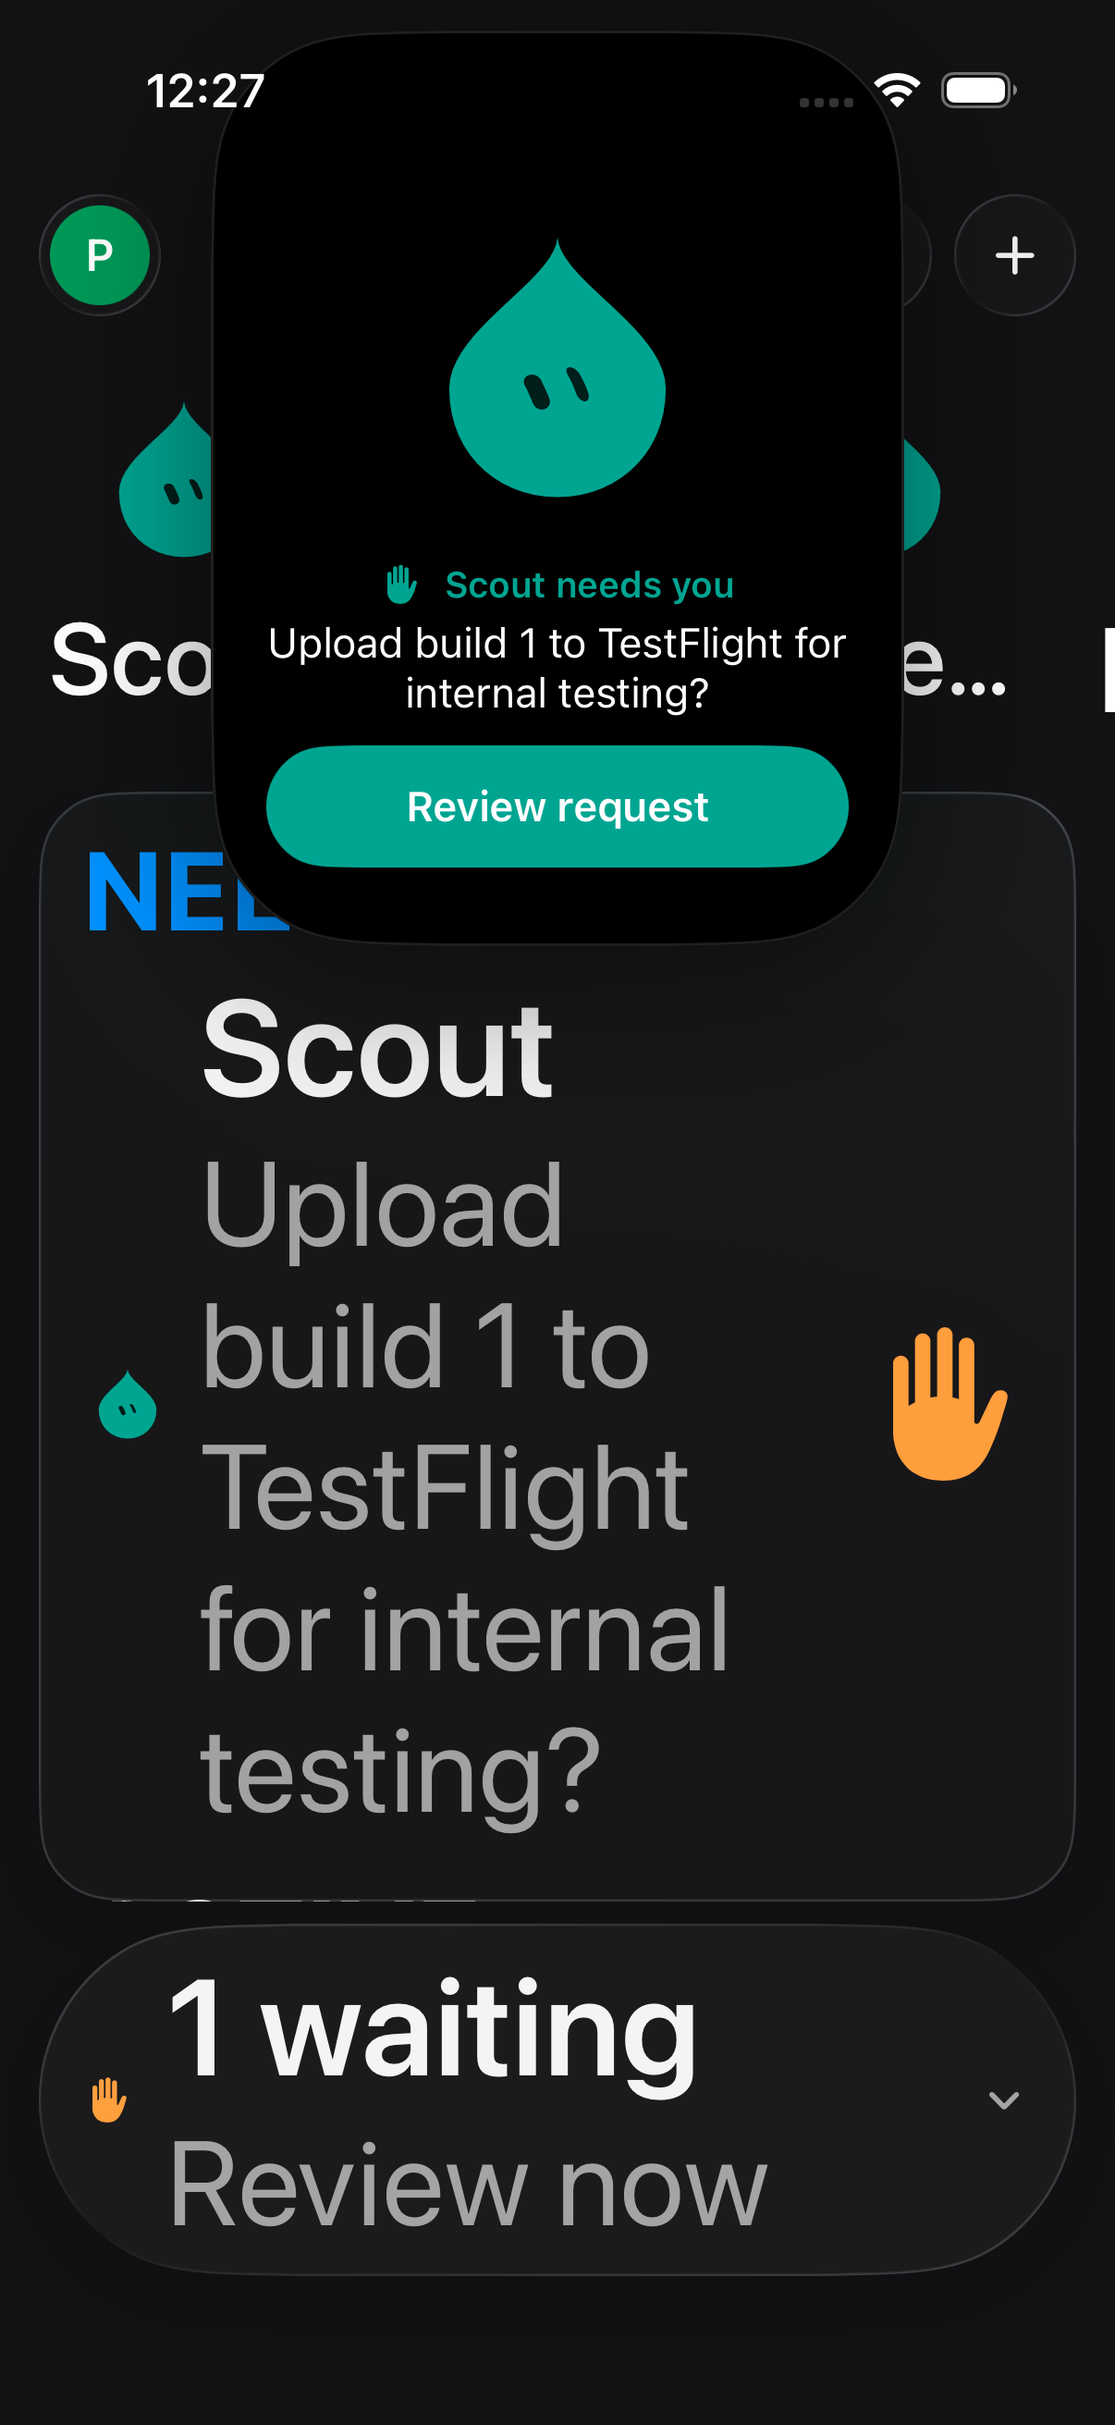
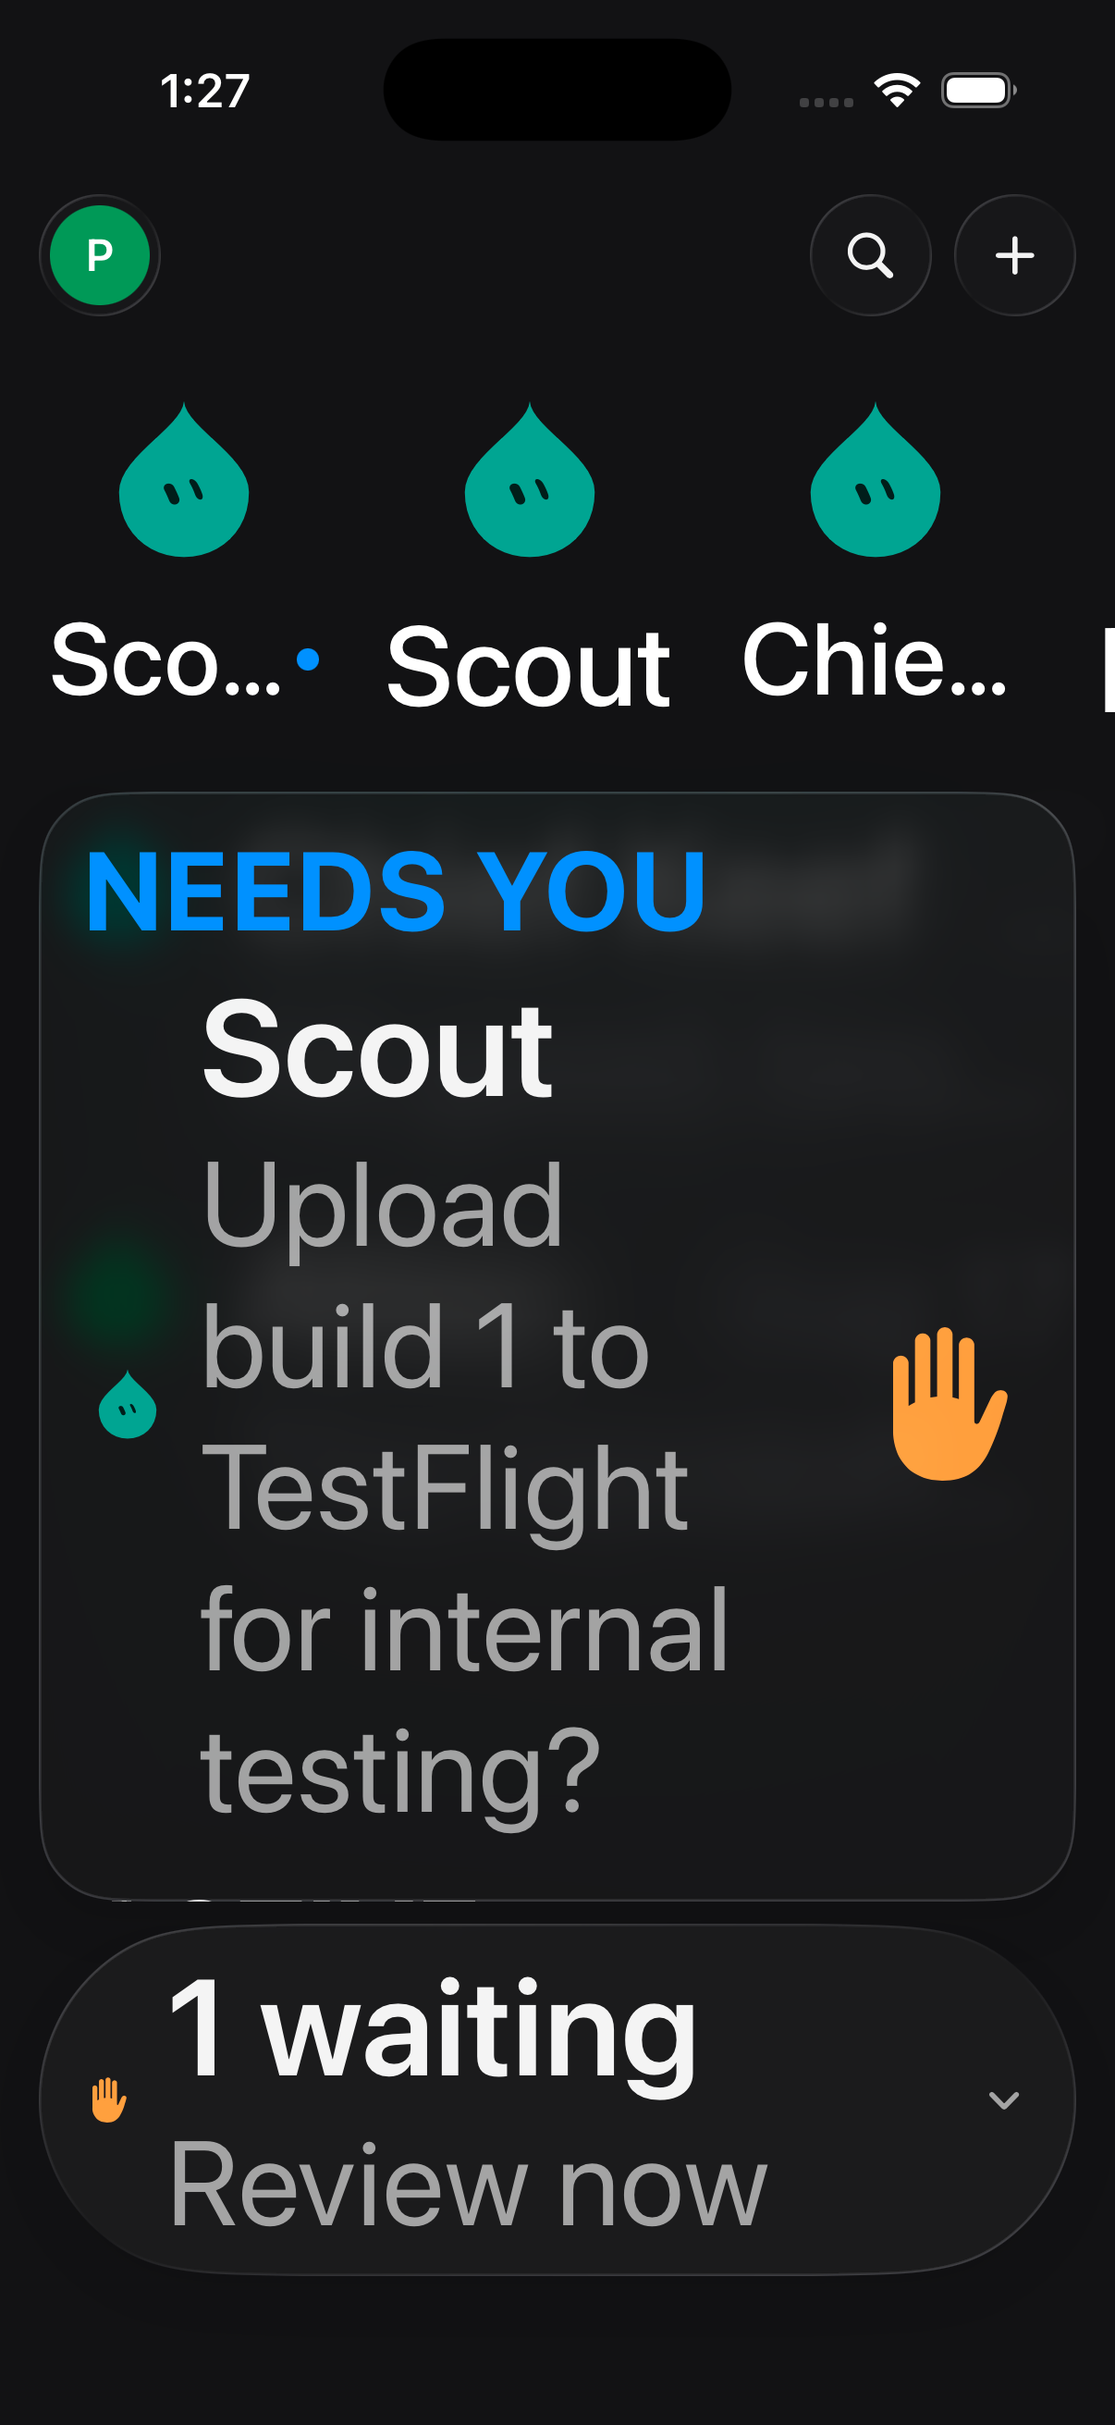
fix(ios): arbitrate home activity and needs-you island

diff --git a/ios/App/ChatListView.swift b/ios/App/ChatListView.swift
@@ -24,11 +24,25 @@ struct ChatListView: View {
     @State private var showingAccount = false
     @State private var groupProfile: Room?
     @State private var pinnedShelfCollapseReserve = false
+    @State private var activityExpanded = false
+    @State private var needsYouIslandExpanded = false
     @FocusState private var searchFocused: Bool
+
+    private var needsYouUpdate: ChatUpdate? {
+        session.state.updates.first { $0.kind == .needsYou }
+    }
+
+    private var homeActivityArbitration: HomeActivityArbitrationPolicy.State {
+        HomeActivityArbitrationPolicy.State(
+            activityExpanded: activityExpanded,
+            needsYouAvailable: needsYouUpdate != nil
+        )
+    }
 
     var body: some View {
         NavigationStack(path: $path) {
             GeometryReader { geo in
+            ZStack(alignment: .top) {
             VStack(spacing: 0) {
                 header
                 StatusBanner()
@@ -111,16 +125,6 @@ struct ChatListView: View {
                         )
                     }
                 }
-                // Keep the activity rail in the stack rather than overlaying
-                // it on the scroll view. At accessibility sizes, expanded
-                // rows grow vertically; making the rail a sibling reserves
-                // its full height so it cannot cover the last roster row.
-                HomeActivityPill(
-                    open: { chat in path.append(chat) },
-                    queuedReceipts: session.queueReceipts
-                )
-                .environmentObject(session)
-                .padding(.bottom, max(8, geo.safeAreaInsets.bottom))
             }
             .animation(reduceMotion ? nil : .snappy(duration: 0.25), value: pinnedChats.map(\.id))
             .animation(reduceMotion ? nil : .snappy(duration: 0.25), value: pinnedShelfCollapseReserve)
@@ -139,18 +143,45 @@ struct ChatListView: View {
             }
             // top-aligned: the roster fills downward from the header
             .frame(maxWidth: .infinity, maxHeight: .infinity, alignment: .top)
-            // a bot that stopped for you grows out of the island
-            .overlay(alignment: .top) {
-                NeedsYouIsland(
-                    update: session.state.updates.first { $0.kind == .needsYou },
-                    hasIsland: IslandGeometry.hasIsland(topInset: geo.safeAreaInsets.top)
-                ) { chat in
-                    Haptics.selection()
-                    path.append(chat)
+            // The dismissal surface belongs to the parent, but the activity
+            // rail is inserted with safeAreaInset below it. This keeps the
+            // full-screen island tap target while the rail remains tappable.
+            .overlay {
+                if needsYouIslandExpanded && homeActivityArbitration.islandDismissalLayerAllowed {
+                    Color.black.opacity(0.001)
+                        .ignoresSafeArea()
+                        .accessibilityHidden(true)
+                        .onTapGesture { needsYouIslandExpanded = false }
                 }
+            }
+            // Keep the activity rail out of the overlay stack. safeAreaInset
+            // reserves its full expanded height without geometry offsets.
+            .safeAreaInset(edge: .bottom, spacing: 0) {
+                HomeActivityPill(
+                    open: { chat in path.append(chat) },
+                    expanded: $activityExpanded,
+                    queuedReceipts: session.queueReceipts
+                )
+                .environmentObject(session)
+                .padding(.bottom, max(8, geo.safeAreaInsets.bottom))
+                .zIndex(1)
             }
             .accessibilityAction(named: "Show updates") {
                 showingUpdates = true
+            }
+            // A bot that stopped for you grows out of the island. It is the
+            // top sibling so the island shell remains visible while its
+            // parent-owned dismissal layer stays behind the rail.
+            NeedsYouIsland(
+                update: needsYouUpdate,
+                hasIsland: IslandGeometry.hasIsland(topInset: geo.safeAreaInsets.top),
+                activityExpanded: activityExpanded,
+                islandPresentationAllowed: homeActivityArbitration.islandPresentationAllowed,
+                isExpanded: $needsYouIslandExpanded
+            ) { chat in
+                Haptics.selection()
+                path.append(chat)
+            }
             }
             }
             .background(VBotSurface.background.ignoresSafeArea())

diff --git a/ios/App/Island.swift b/ios/App/Island.swift
@@ -75,6 +75,9 @@ struct IslandShell<Content: View>: View {
 struct NeedsYouIsland: View {
     let update: ChatUpdate?
     let hasIsland: Bool
+    let activityExpanded: Bool
+    let islandPresentationAllowed: Bool
+    @Binding var isExpanded: Bool
     let open: (Chat) -> Void
     @EnvironmentObject private var session: Session
     @Environment(\.accessibilityReduceMotion) private var reduceMotion
@@ -88,13 +91,36 @@ struct NeedsYouIsland: View {
     private var expanded: Bool { shown != nil }
 
     var body: some View {
-        ZStack(alignment: .top) {
-            if expanded {
-                // tap anywhere else: put it away, keep the row's tag
-                Color.black.opacity(0.001)
-                    .ignoresSafeArea()
-                    .onTapGesture { dismiss() }
+        Group {
+            if islandPresentationAllowed {
+                islandContent
             }
+        }
+        .frame(maxWidth: .infinity, alignment: .top)
+        .animation(reduceMotion ? nil : .spring(response: 0.55, dampingFraction: 0.78), value: expanded)
+        .transaction { transaction in
+            if reduceMotion {
+                transaction.animation = nil
+                transaction.disablesAnimations = true
+            }
+        }
+        .onChange(of: update?.card?.requestId) { _, _ in reconcile() }
+        .onAppear { reconcile() }
+        .onChange(of: activityExpanded) { _, expanded in
+            if expanded {
+                setShown(nil)
+            } else {
+                reconcile()
+            }
+        }
+        .onChange(of: isExpanded) { _, expanded in
+            guard !expanded, shown != nil else { return }
+            dismiss()
+        }
+    }
+
+    private var islandContent: some View {
+        ZStack(alignment: .top) {
             IslandShell(expanded: expanded, hasIsland: hasIsland) {
                 if let shown {
                     VStack(spacing: 10) {
@@ -148,31 +174,30 @@ struct NeedsYouIsland: View {
                 }
             }
         }
-        .frame(maxWidth: .infinity, alignment: .top)
-        .animation(reduceMotion ? nil : .spring(response: 0.55, dampingFraction: 0.78), value: expanded)
-        .transaction { transaction in
-            if reduceMotion {
-                transaction.animation = nil
-                transaction.disablesAnimations = true
-            }
-        }
-        .onChange(of: update?.card?.requestId) { _, _ in reconcile() }
-        .onAppear { reconcile() }
     }
 
     /// Show a new needs-you the moment it lands; never re-show one the user
     /// put away; fold away when it is answered elsewhere.
     private func reconcile() {
-        guard let update, update.kind == .needsYou, let id = update.card?.requestId else {
-            shown = nil
+        guard !activityExpanded else {
+            setShown(nil)
             return
         }
-        if dismissedCardIds.contains(id) { shown = nil; return }
-        shown = update
+        guard let update, update.kind == .needsYou, let id = update.card?.requestId else {
+            setShown(nil)
+            return
+        }
+        if dismissedCardIds.contains(id) { setShown(nil); return }
+        setShown(update)
     }
 
     private func dismiss() {
         if let id = shown?.card?.requestId { dismissedCardIds.insert(id) }
-        shown = nil
+        setShown(nil)
+    }
+
+    private func setShown(_ update: ChatUpdate?) {
+        shown = update
+        isExpanded = update != nil
     }
 }

diff --git a/ios/Tests/CompanionCoreTests/HomeActivityArbitrationPolicyTests.swift b/ios/Tests/CompanionCoreTests/HomeActivityArbitrationPolicyTests.swift
@@ -1,0 +1,54 @@
+import XCTest
+@testable import CompanionCore
+
+final class HomeActivityArbitrationPolicyTests: XCTestCase {
+    func testExpandedActivityOwnsSurfaceAndSuppressesIslandAndDismissalLayer() {
+        let state = HomeActivityArbitrationPolicy.State(
+            activityExpanded: true,
+            needsYouAvailable: true
+        )
+
+        XCTAssertEqual(state.surface, .activity)
+        XCTAssertFalse(state.islandPresentationAllowed)
+        XCTAssertFalse(state.islandDismissalLayerAllowed)
+    }
+
+    func testNeedsYouOwnsSurfaceWhenActivityIsCollapsed() {
+        let state = HomeActivityArbitrationPolicy.State(
+            activityExpanded: false,
+            needsYouAvailable: true
+        )
+
+        XCTAssertEqual(state.surface, .needsYouIsland)
+        XCTAssertTrue(state.islandPresentationAllowed)
+        XCTAssertTrue(state.islandDismissalLayerAllowed)
+    }
+
+    func testIdleSurfaceKeepsCollapsedIslandButNoDismissalLayer() {
+        let state = HomeActivityArbitrationPolicy.State(
+            activityExpanded: false,
+            needsYouAvailable: false
+        )
+
+        XCTAssertEqual(state.surface, .idle)
+        XCTAssertTrue(state.islandPresentationAllowed)
+        XCTAssertFalse(state.islandDismissalLayerAllowed)
+    }
+
+    func testActivityExpansionTransitionReleasesIslandForPendingNeedsYou() {
+        var state = HomeActivityArbitrationPolicy.State(
+            activityExpanded: false,
+            needsYouAvailable: true
+        )
+
+        state = state.settingActivityExpanded(true)
+        XCTAssertEqual(state.surface, .activity)
+        XCTAssertFalse(state.islandPresentationAllowed)
+        XCTAssertFalse(state.islandDismissalLayerAllowed)
+
+        state = state.settingActivityExpanded(false)
+        XCTAssertEqual(state.surface, .needsYouIsland)
+        XCTAssertTrue(state.islandPresentationAllowed)
+        XCTAssertTrue(state.islandDismissalLayerAllowed)
+    }
+}

diff --git a/ios/Sources/CompanionCore/HomeActivityArbitrationPolicy.swift b/ios/Sources/CompanionCore/HomeActivityArbitrationPolicy.swift
@@ -1,0 +1,45 @@
+/// Parent-level ownership for the home activity rail and needs-you island.
+/// An expanded activity panel owns the home interaction surface so the island
+/// and its dismissal layer cannot cover it or intercept its taps.
+public enum HomeActivityArbitrationPolicy: Sendable {
+    public enum Surface: String, Equatable, Sendable {
+        case idle
+        case activity
+        case needsYouIsland
+    }
+
+    public struct State: Equatable, Sendable {
+        public let activityExpanded: Bool
+        public let needsYouAvailable: Bool
+
+        public init(activityExpanded: Bool, needsYouAvailable: Bool) {
+            self.activityExpanded = activityExpanded
+            self.needsYouAvailable = needsYouAvailable
+        }
+
+        public var surface: Surface {
+            if activityExpanded { return .activity }
+            return needsYouAvailable ? .needsYouIsland : .idle
+        }
+
+        /// The collapsed hardware shell remains available on a normal home,
+        /// but an expanded activity panel suppresses the whole island view.
+        public var islandPresentationAllowed: Bool {
+            surface != .activity
+        }
+
+        /// Only an active needs-you surface may install the full-screen
+        /// dismissal layer. The activity panel never competes for that layer.
+        public var islandDismissalLayerAllowed: Bool {
+            surface == .needsYouIsland
+        }
+
+        public func settingActivityExpanded(_ expanded: Bool) -> State {
+            State(activityExpanded: expanded, needsYouAvailable: needsYouAvailable)
+        }
+
+        public func settingNeedsYouAvailable(_ available: Bool) -> State {
+            State(activityExpanded: activityExpanded, needsYouAvailable: available)
+        }
+    }
+}

diff --git a/ios/App/HomeActivityPill.swift b/ios/App/HomeActivityPill.swift
@@ -8,12 +8,12 @@ import CompanionCore
 /// phone.
 struct HomeActivityPill: View {
     let open: (Chat) -> Void
+    @Binding var expanded: Bool
     var queuedReceipts: [HomeActivityQueueReceipt] = []
 
     @EnvironmentObject private var session: Session
     @Environment(\.accessibilityReduceMotion) private var reduceMotion
     @Environment(\.dynamicTypeSize) private var dynamicTypeSize
-    @State private var expanded = false
 
     private var presentation: HomeActivityPresentation {
         session.state.homeActivityPresentation(queuedReceipts: queuedReceipts)

diff --git a/.superpowers/sdd/task-4-report.md b/.superpowers/sdd/task-4-report.md
@@ -411,3 +411,67 @@ ios/AppStore/screenshots/task-4-home-activity-2026-08-31/24-expanded-active-xxxl
 ```
 
 No signing, upload, deploy, merge, or device release action was attempted.
+
+## Final activity/island arbitration fix
+
+Date: 2026-09-01 (America/Chicago)
+Starting commit: `4c6da5d fix(ios): contain accessibility activity rail`
+
+The remaining Important interaction finding is closed. `ChatListView` now
+owns a small `HomeActivityArbitrationPolicy` state: an expanded activity panel
+suppresses the needs-you island and its dismissal layer, while the normal
+island dismissal layer is installed by the parent below the `safeAreaInset`
+activity rail. The rail therefore keeps its reserved expanded height and its
+collapsed button always wins the first tap; collapsing the panel re-reconciles
+the pending needs-you card. The island shell and VoiceOver labels remain
+unchanged in the normal collapsed/expanded flow, with no geometry offsets.
+
+TDD evidence: `HomeActivityArbitrationPolicyTests` was first run before the
+policy existed and failed to compile (`cannot find 'HomeActivityArbitrationPolicy'`),
+then passed four state-transition tests after implementation.
+
+Final verification (all passed):
+
+```sh
+swift test --package-path ios --filter 'HomeActivityArbitrationPolicyTests|HomeActivityPresentationTests|HomeActivityPreviewExpansionPolicyTests'
+swift test --package-path ios
+(cd ios && xcodegen generate)
+xcodebuild -project ios/OpenMausCompanion.xcodeproj -scheme OpenMausCompanion \
+  -sdk iphonesimulator -configuration Debug \
+  -destination 'platform=iOS Simulator,id=334FC58E-19DA-460C-AC2A-1D34D7CAA916' \
+  -derivedDataPath /tmp/vbot-arbitration-debug-final-0901 \
+  CODE_SIGNING_ALLOWED=NO CODE_SIGNING_REQUIRED=NO build
+xcodebuild -project ios/OpenMausCompanion.xcodeproj -scheme OpenMausCompanion \
+  -sdk iphonesimulator -configuration Release \
+  -destination 'platform=iOS Simulator,id=334FC58E-19DA-460C-AC2A-1D34D7CAA916' \
+  -derivedDataPath /tmp/vbot-arbitration-release-final-0901 \
+  CODE_SIGNING_ALLOWED=NO CODE_SIGNING_REQUIRED=NO build
+git diff --check
+```
+
+The focused gate passed four XCTest cases and seven Swift Testing cases. The
+full Swift gate passed 704 XCTest cases with zero failures and 20 Swift Testing
+cases in five suites. Both unsigned simulator builds ended with
+`** BUILD SUCCEEDED **`; logs are `/tmp/vbot-arbitration-focused-final-0901.log`,
+`/tmp/vbot-arbitration-swift-final-0901.log`,
+`/tmp/vbot-arbitration-debug-final-0901.log`, and
+`/tmp/vbot-arbitration-release-final-0901.log`.
+
+On the iPhone 17 Pro simulator (iOS 26.5, dark appearance, accessibility
+XXXL), the final Debug build was exercised with
+`-store-preview -preview-expand-activity`. Tapping the collapsed activity rail
+while the needs-you island was expanded opened the activity panel instead of
+dismissing the island; the island disappeared immediately. The pending card
+returned after collapsing the panel, preserving normal island behavior. Full-
+resolution (1206 x 2622) screenshots were recaptured and inspected:
+
+```text
+ios/AppStore/screenshots/task-4-home-activity-2026-08-31/18-expanded-needs-xxxl-reduce-motion-on-post-preview-expansion-fix.png
+ios/AppStore/screenshots/task-4-home-activity-2026-08-31/19-expanded-needs-xxxl-reduce-motion-off-post-preview-expansion-fix.png
+```
+
+Both captures show the readable `NEEDS YOU` heading, Scout row, and complete
+request detail with no island overlap. Reduce Motion on/off were each set
+explicitly; the off capture retains the expected glass material effect but all
+copy remains readable. No signing, upload, deploy, merge, or production
+resource change was attempted.

diff --git a/ios/TESTING.md b/ios/TESTING.md
@@ -406,3 +406,18 @@ For Swift errors, the compiler's own output is the most useful thing — file,
 line, and message. For runtime problems, the harness log is usually more
 informative than the phone: it is where the pairing, auth and stream decisions
 are actually made.
+
+## Final activity/island arbitration closure (2026-09-01)
+
+The parent home stack now arbitrates the needs-you island and activity rail.
+Expanding the activity panel suppresses the island and its full-screen
+dismissal layer; while the island is expanded, that dismissal layer stays
+behind the `safeAreaInset` rail so the collapsed activity button remains
+tappable. Collapsing the panel re-reconciles the pending card, preserving the
+normal island and VoiceOver behavior without geometry offsets. The policy and
+state transition tests live in `HomeActivityArbitrationPolicyTests.swift`.
+
+The final XXXL needs-attention captures (`18` and `19`) were recaptured from the
+unsigned Debug simulator build with Reduce Motion explicitly on and off. Both
+are 1206 x 2622 PNGs and show a fully readable `NEEDS YOU` heading, Scout row,
+and complete request detail with no island overlap.
